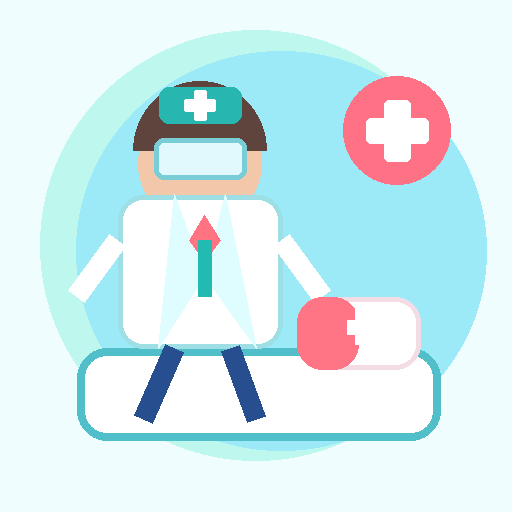
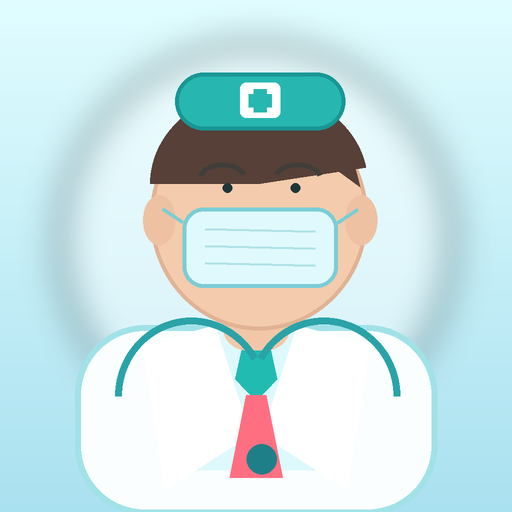
Add files via upload

diff --git a/index.html b/index.html
@@ -4,6 +4,11 @@
   <meta charset="utf-8" />
   <meta name="viewport" content="width=device-width, initial-scale=1, viewport-fit=cover" />
   <meta name="theme-color" content="#23b8b2" />
+  <meta name="mobile-web-app-capable" content="yes" />
+  <meta name="apple-mobile-web-app-capable" content="yes" />
+  <meta name="apple-mobile-web-app-status-bar-style" content="black-translucent" />
+  <meta name="apple-mobile-web-app-title" content="Doctor Rush" />
+  <link rel="apple-touch-icon" href="apple-touch-icon.png" />
   <title>Doctor Rush • Trường GPP</title>
   <link rel="manifest" href="manifest.webmanifest" />
   <style>
@@ -55,6 +60,11 @@
     .info-box{margin:14px auto 0;max-width:650px;padding:14px 16px;border-radius:18px;background:rgba(39,183,176,.07);border:1px solid rgba(39,183,176,.12);font-size:14px;line-height:1.6;color:#15525a}
     .info-box b{color:#0d3d46}
     .btns{display:flex;justify-content:center;gap:10px;flex-wrap:wrap;margin-top:16px}.btn{border:0;color:white;background:linear-gradient(135deg,#21bbb2,#47c6e8);padding:13px 19px;border-radius:15px;font-weight:1000;cursor:pointer;box-shadow:0 12px 34px rgba(31,183,176,.25);font-size:15px}.btn.secondary{color:#13626b;background:rgba(255,255,255,.74);border:1px solid rgba(18,108,118,.12);box-shadow:none}.hint{margin-top:16px;font-size:12px;color:rgba(13,61,70,.66)}
+
+    #installBtn{background:linear-gradient(135deg,#0d7f89,#20b8ac);box-shadow:0 12px 34px rgba(13,127,137,.22)}
+    #installBtn[hidden]{display:none!important}
+    #installTip{display:none;margin:9px auto 0;max-width:570px;padding:9px 12px;border-radius:13px;background:rgba(13,127,137,.08);border:1px solid rgba(13,127,137,.13);font-size:11px;line-height:1.45;color:#416f75}
+    #installTip.show{display:block}
     #mobileJump{display:none;position:absolute;right:18px;bottom:22px;width:74px;height:74px;border-radius:50%;border:1px solid rgba(255,255,255,.82);background:rgba(255,255,255,.55);backdrop-filter:blur(12px);color:#0c6971;font-size:24px;font-weight:1000;box-shadow:0 14px 40px rgba(0,0,0,.08)}
     .flash{position:absolute;inset:0;pointer-events:none;background:white;opacity:0}.flash.on{animation:flash .24s ease-out}@keyframes flash{0%{opacity:.38}100%{opacity:0}}
 
@@ -73,11 +83,11 @@
     .rotate-card b{display:block;font-size:22px;margin-bottom:8px}
     .rotate-card span{font-size:13px;line-height:1.5;color:#527e85}
     @media (pointer:coarse) and (orientation:landscape){
-      #wrap{padding:0}
-      #stage{width:min(100vw,calc(100vh*16/9));height:auto;aspect-ratio:16/9;border-radius:0;border:0}
-      .hud{left:8px;right:8px;top:8px}.hud-left,.hud-right{gap:6px}.chip{padding:6px 8px;font-size:9px;gap:5px}.chip b{font-size:11px}
+      #wrap{padding:0;width:100vw;height:100dvh}
+      #stage{width:100vw;height:100dvh;aspect-ratio:auto;border-radius:0;border:0}
+      .hud{left:max(8px,env(safe-area-inset-left));right:max(8px,env(safe-area-inset-right));top:max(8px,env(safe-area-inset-top))}.hud-left,.hud-right{gap:6px}.chip{padding:6px 8px;font-size:9px;gap:5px}.chip b{font-size:11px}
       .brand{display:none}#mobileJump{display:block;right:12px;bottom:12px;width:62px;height:62px}#mobilePause{display:block}
-      .health-wrap{left:8px;right:8px;bottom:8px}.health-card{padding:7px 10px;gap:7px}.heart{width:28px;height:28px;font-size:15px}.health-bar{width:min(210px,38vw);height:13px}
+      .health-wrap{left:max(8px,env(safe-area-inset-left));right:max(8px,env(safe-area-inset-right));bottom:max(8px,env(safe-area-inset-bottom))}.health-card{padding:7px 10px;gap:7px}.heart{width:28px;height:28px;font-size:15px}.health-bar{width:min(210px,38vw);height:13px}
       .card{width:min(690px,96%);max-height:96%;overflow:auto;padding:12px 14px;border-radius:20px}
       .card-top{gap:10px;margin-bottom:3px}.hero-logo{width:56px;height:56px}.eyebrow{font-size:8px}.title{font-size:30px;margin:3px 0 5px}.sub{font-size:10px;line-height:1.35;margin-bottom:6px}
       #startPanel .info-box{display:none}.difficulty-title{font-size:9px;margin:5px 0}.difficulty-grid{gap:6px}.difficulty-option{padding:7px 7px;border-radius:12px}.difficulty-option strong{font-size:12px}.difficulty-option span{font-size:8px}
@@ -151,7 +161,8 @@
           </button>
         </div>
 
-        <div class="btns"><button class="btn" id="startBtn">▶ Chơi ngay</button><button class="btn secondary" id="soundBtn">🔊 Âm thanh: Bật</button></div>
+        <div class="btns"><button class="btn" id="startBtn">▶ Chơi ngay</button><button class="btn" id="installBtn" hidden>📲 Cài ứng dụng</button><button class="btn secondary" id="soundBtn">🔊 Âm thanh: Bật</button></div>
+        <div id="installTip"></div>
         <div class="hint">PC: Space / ↑ để nhảy • Click chuột để tạm dừng • Điện thoại: xoay ngang, chạm để nhảy</div>
       </div>
     </div>
@@ -212,13 +223,15 @@
   function randomRange(a,b){ return a+Math.random()*(b-a); }
   function distanceToFrames(dist){ return Math.max(20, Math.round(dist/Math.max(4.5,speed))); }
   function resize(){
+    const r=stage.getBoundingClientRect();
     DPR=Math.min(devicePixelRatio||1,2);
-    W=GAME_W; H=GAME_H;
+    const aspect=Math.max(16/9, r.width/Math.max(1,r.height));
+    H=GAME_H; W=Math.round(GAME_H*aspect);
     canvas.width=W*DPR; canvas.height=H*DPR;
     ctx.setTransform(DPR,0,0,DPR,0,0);
     groundY=H*.78;
-    hero.x=150;
-    if(state==='menu'){hero.y=groundY-hero.h}
+    hero.x=Math.round(W*.117);
+    if(state==='menu') hero.y=groundY-hero.h;
     buildScene();
   }
   function buildScene(){
@@ -697,6 +710,41 @@
   function checkPortrait(){ const mobileLike=matchMedia('(pointer:coarse)').matches || innerWidth<901; if(mobileLike && innerHeight>innerWidth && state==='playing') state='paused'; }
   addEventListener('orientationchange',()=>setTimeout(checkPortrait,120));
   addEventListener('resize',checkPortrait);
+  let deferredInstallPrompt=null;
+  const installBtn=$('installBtn'), installTip=$('installTip');
+  const isiOS=/iphone|ipad|ipod/i.test(navigator.userAgent);
+  function refreshInstallUI(){
+    if(isInstalled()){
+      installBtn.hidden=true;
+      installTip.classList.remove('show');
+      return;
+    }
+    if(deferredInstallPrompt || isiOS){ installBtn.hidden=false; }
+  }
+  addEventListener('beforeinstallprompt',e=>{
+    e.preventDefault(); deferredInstallPrompt=e; refreshInstallUI();
+  });
+  addEventListener('appinstalled',()=>{
+    deferredInstallPrompt=null; installBtn.hidden=true;
+    installTip.textContent='✓ Doctor Rush đã được cài. Hãy mở bằng biểu tượng bác sĩ ngoài màn hình để chơi toàn màn hình.';
+    installTip.classList.add('show');
+  });
+  installBtn.onclick=async()=>{
+    if(deferredInstallPrompt){
+      deferredInstallPrompt.prompt();
+      try{ await deferredInstallPrompt.userChoice; }catch(e){}
+      deferredInstallPrompt=null; refreshInstallUI();
+      return;
+    }
+    if(isiOS){
+      installTip.textContent='Trên iPhone/iPad: bấm nút Chia sẻ của Safari → Thêm vào Màn hình chính. Sau đó mở game bằng icon bác sĩ để không còn thanh địa chỉ.';
+    }else{
+      installTip.textContent='Nếu trình duyệt chưa hiện hộp cài đặt: mở menu trình duyệt → Cài ứng dụng / Thêm vào màn hình chính.';
+    }
+    installTip.classList.add('show');
+  };
+  refreshInstallUI();
+
   if('serviceWorker' in navigator && location.protocol!=='file:') addEventListener('load',()=>navigator.serviceWorker.register('./sw.js').catch(()=>{}));
   updateHUD();
 })();

diff --git a/sw.js b/sw.js
@@ -1,41 +1,10 @@
-const CACHE = 'doctor-rush-gpp-v6';
-const ASSETS = [
-  './',
-  './index.html',
-  './manifest.webmanifest',
-  './logo-gpp.png',
-  './icon-192.png',
-  './icon-512.png'
-];
-
-self.addEventListener('install', event => {
-  event.waitUntil(
-    caches.open(CACHE)
-      .then(cache => cache.addAll(ASSETS))
-      .then(() => self.skipWaiting())
-  );
-});
-
-self.addEventListener('activate', event => {
-  event.waitUntil(
-    caches.keys()
-      .then(keys => Promise.all(keys.filter(key => key !== CACHE).map(key => caches.delete(key))))
-      .then(() => self.clients.claim())
-  );
-});
-
-self.addEventListener('fetch', event => {
-  if (event.request.method !== 'GET') return;
-  event.respondWith(
-    caches.match(event.request).then(cached => {
-      if (cached) return cached;
-      return fetch(event.request)
-        .then(response => {
-          const copy = response.clone();
-          caches.open(CACHE).then(cache => cache.put(event.request, copy));
-          return response;
-        })
-        .catch(() => caches.match('./index.html'));
-    })
-  );
+const CACHE='doctor-rush-v8';
+const ASSETS=['./','./index.html','./manifest.webmanifest','./icon-192.png','./icon-512.png','./apple-touch-icon.png','./logo-gpp.png'];
+self.addEventListener('install',event=>event.waitUntil(caches.open(CACHE).then(cache=>cache.addAll(ASSETS)).then(()=>self.skipWaiting())));
+self.addEventListener('activate',event=>event.waitUntil(caches.keys().then(keys=>Promise.all(keys.filter(k=>k!==CACHE).map(k=>caches.delete(k)))).then(()=>self.clients.claim())));
+self.addEventListener('fetch',event=>{
+  if(event.request.method!=='GET') return;
+  event.respondWith(caches.match(event.request).then(cached=>cached||fetch(event.request).then(response=>{
+    const copy=response.clone(); caches.open(CACHE).then(cache=>cache.put(event.request,copy)); return response;
+  }).catch(()=>caches.match('./index.html'))));
 });

diff --git a/README.md b/README.md
@@ -1,17 +1,13 @@
-# Dragon Sky Runner
+# Doctor Rush • Trường GPP
 
-Game runner vô tận bằng HTML5 Canvas, chạy tốt trên desktop/mobile và phù hợp GitHub Pages.
+Bộ PWA đầy đủ để đưa lên GitHub Pages.
 
-## Cách chạy
-- Mở `index.html` để chơi trực tiếp trên máy.
-- Để chế độ PWA/offline hoạt động đầy đủ, upload toàn bộ thư mục lên GitHub Pages/HTTPS.
+- `index.html`: game
+- `manifest.webmanifest`: cấu hình cài ứng dụng, landscape + fullscreen
+- `sw.js`: chạy offline/cache
+- `icon-192.png`, `icon-512.png`: icon bác sĩ từ vai trở lên
+- `apple-touch-icon.png`: icon cho iPhone/iPad
+- `logo-gpp.png`: logo GPP trong game
 
-## Điều khiển
-- Space / ↑ / W / click / chạm: nhảy
-- P: tạm dừng
-
-## File
-- `index.html`: toàn bộ game
-- `manifest.webmanifest`: cấu hình PWA
-- `sw.js`: cache offline
-- `icon-192.png`, `icon-512.png`: icon ứng dụng
+GitHub Pages: chọn **Settings → Pages → Deploy from a branch → main → /(root)**.
+Khi đã cài PWA và mở từ icon ngoài màn hình, trình duyệt sẽ không hiển thị thanh URL như khi mở website thông thường.
